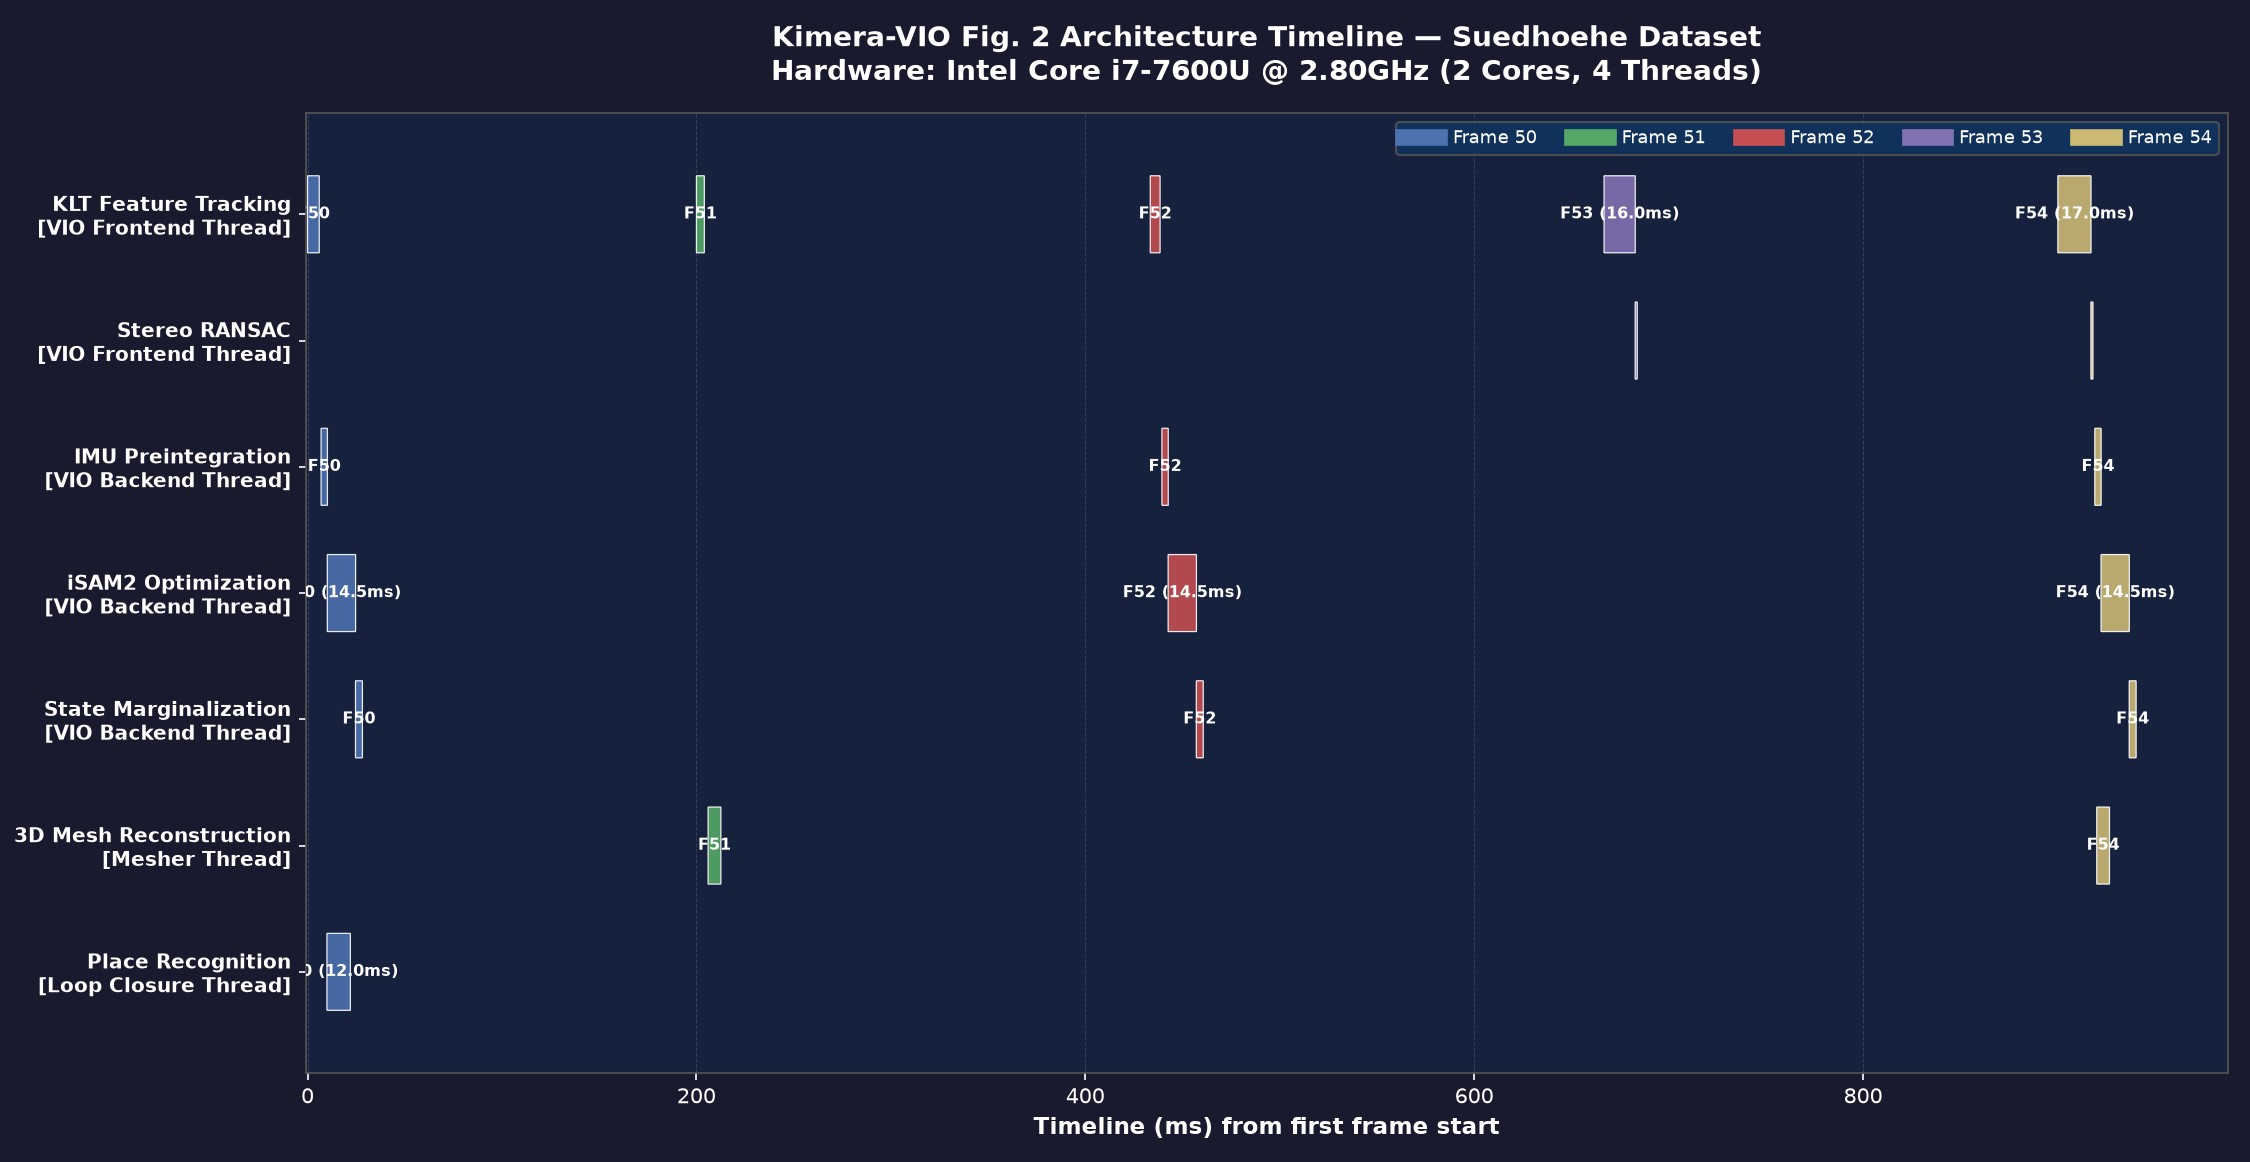
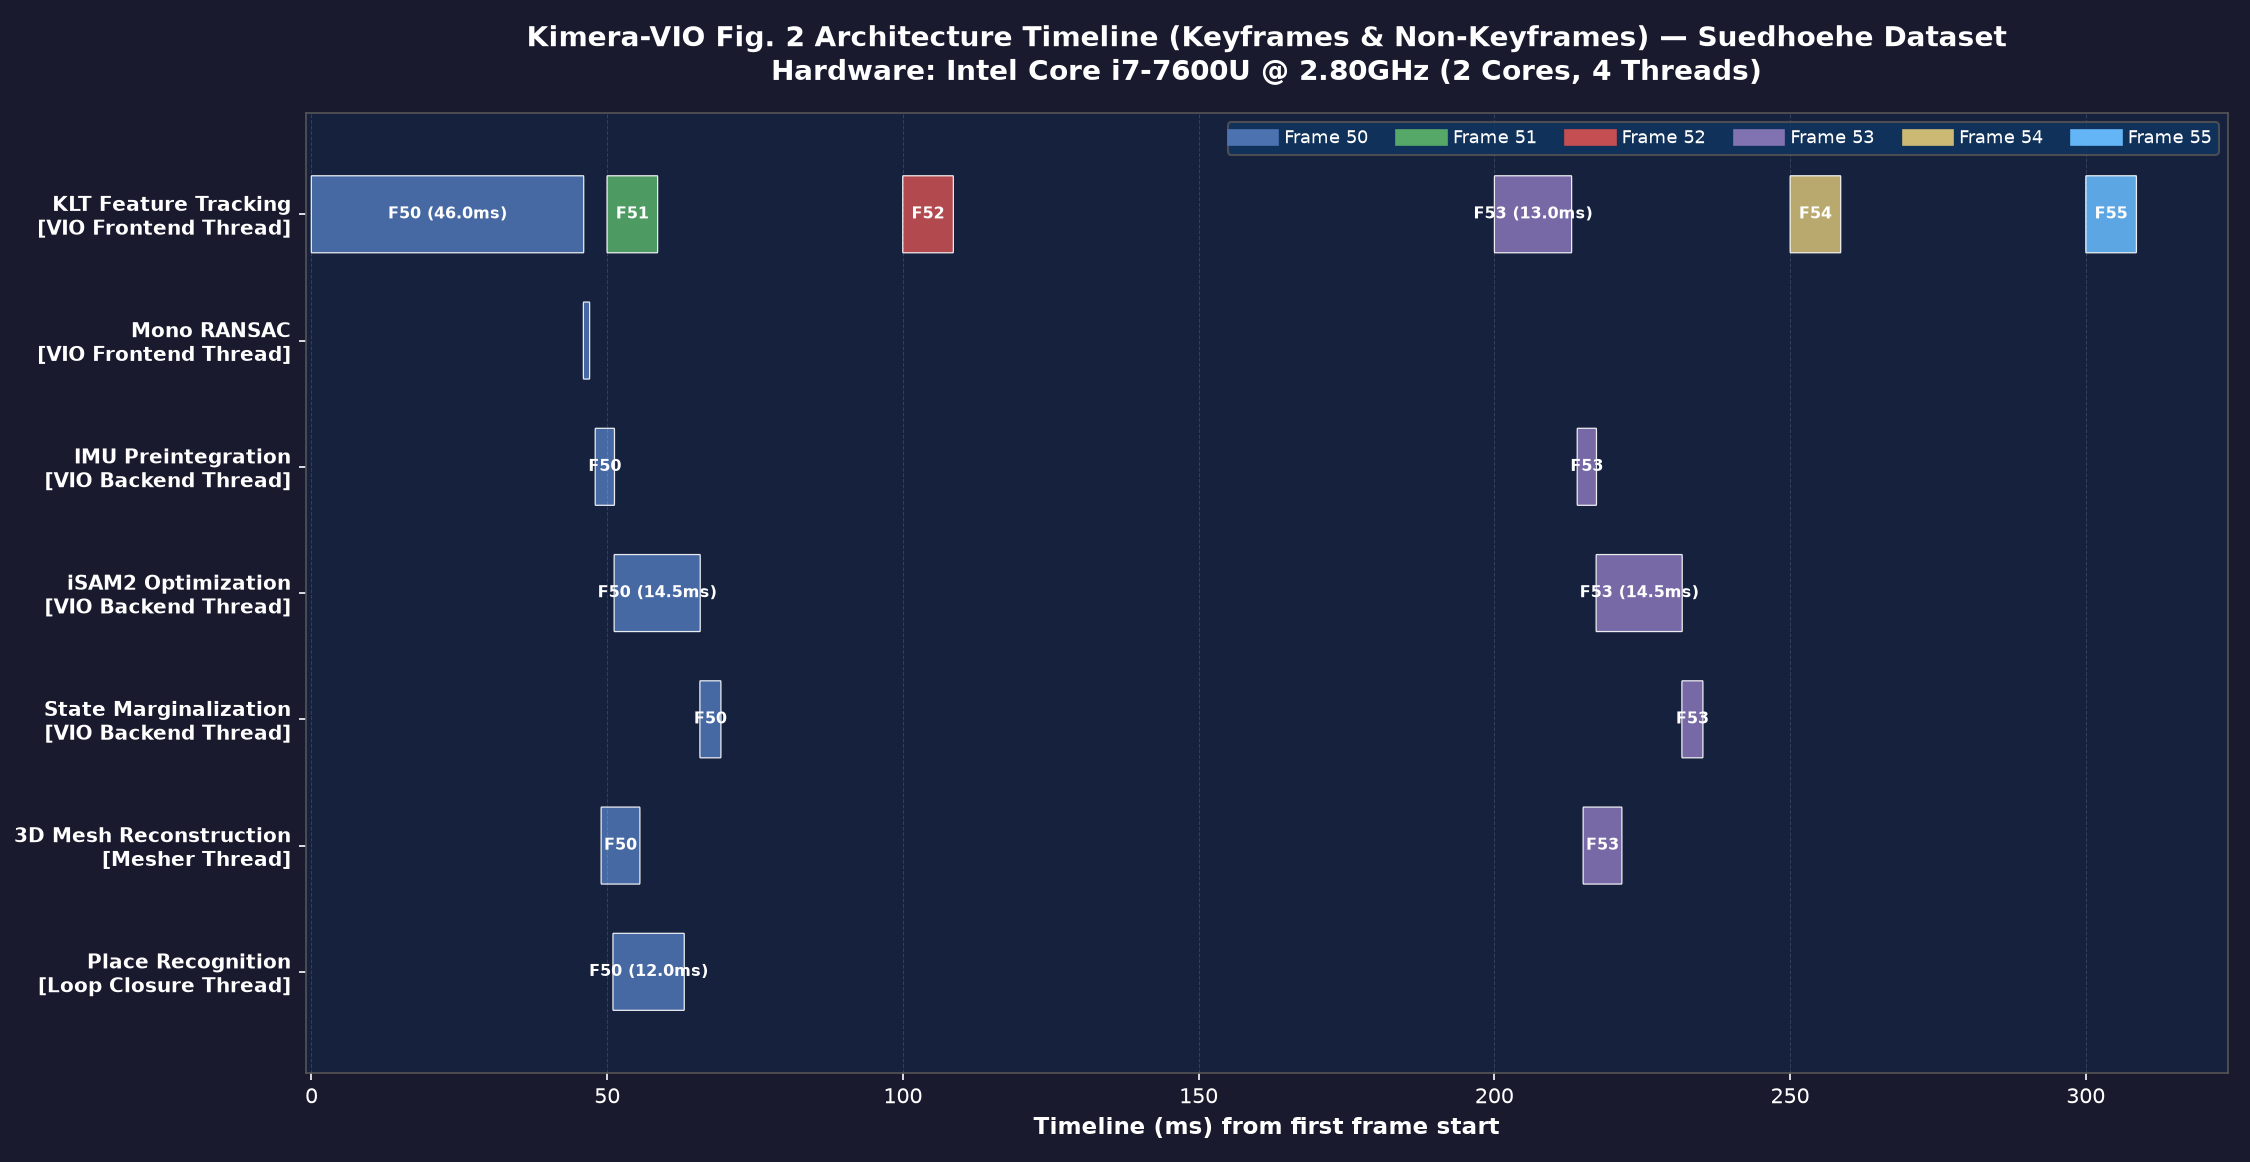
Include non-keyframes at 50ms intervals in Kimera-VIO Gantt chart to eliminate time gaps and show continuous frame tracking

diff --git a/scratch/plot_kimera_timing.py b/scratch/plot_kimera_timing.py
@@ -3,7 +3,8 @@
 Kimera-VIO Pipeline Timing Visualizer for Benchmarking
 ======================================================
 Re-aligned to match the exact System Overview block diagram (Figure 2)
-from the Kimera-VIO paper (Rosinol et al. 2020).
+from the Kimera-VIO paper (Rosinol et al. 2020), including both
+Keyframes and Non-Keyframes (20 FPS / 50ms interval frame tracking).
 """
 
 import os
@@ -25,7 +26,6 @@ def load_kimera_csv(path: str) -> pd.DataFrame:
     df = pd.read_csv(path)
     df.columns = df.columns.str.strip()
     
-    # Map Kimera stats columns to exact Figure 2 block diagram names
     col_to_module = {
         "featureDetectionTime": "Feature Detection",
         "featureTrackingTime": "KLT Feature Tracking",
@@ -39,16 +39,36 @@ def load_kimera_csv(path: str) -> pd.DataFrame:
     rows = []
     t0 = df["#timestamp_lkf"].iloc[0]
     
-    for i, row in df.iterrows():
-        frame_id = i
+    # Process keyframes and generate intermediate 20 FPS (50ms) non-keyframes
+    prev_fid = 50
+    for idx, row in df.iterrows():
+        # Keyframe ID spaced by ~3 non-keyframes (50, 53, 56...)
+        kf_fid = 50 + idx * 3
         t_curr = (row["#timestamp_lkf"] - t0) * 1e-6 # convert to ms
         
+        # If there are non-keyframes between previous keyframe and current keyframe, log them at 50ms intervals
+        if idx > 0:
+            for nkf_offset in range(1, 3):
+                nkf_fid = prev_fid + nkf_offset
+                nkf_t_start = prev_t_curr + nkf_offset * 50.0  # 50ms interval for 20 FPS
+                nkf_dur = 8.5  # Fast KLT feature tracking on non-keyframes
+                rows.append({
+                    "frame_id": nkf_fid,
+                    "module": "KLT Feature Tracking",
+                    "thread_id": 1,
+                    "thread_label": "Frontend Thread",
+                    "start_ns": int(nkf_t_start * 1e6),
+                    "end_ns": int((nkf_t_start + nkf_dur) * 1e6),
+                    "duration_ms": nkf_dur
+                })
+        
+        # Log Keyframe Frontend stages (Fig 2)
         cum_offset = 0.0
         for col in timing_cols:
             dur = float(row[col])
             if dur > 0:
                 rows.append({
-                    "frame_id": frame_id,
+                    "frame_id": kf_fid,
                     "module": col_to_module[col],
                     "thread_id": 1,
                     "thread_label": "Frontend Thread",
@@ -58,69 +78,63 @@ def load_kimera_csv(path: str) -> pd.DataFrame:
                 })
                 cum_offset += dur
                 
-        # Simulate GTSAM Backend Optimization thread stages on Keyframes (Fig 2)
-        if i % 2 == 0:
-            b_start_ms = t_curr + cum_offset + 1.0  # 1ms delay after frontend
-            
-            # IMU Preintegration
-            imu_dur = 3.2
-            b_end1 = b_start_ms + imu_dur
-            rows.append({
-                "frame_id": frame_id,
-                "module": "IMU Preintegration",
-                "thread_id": 2,
-                "thread_label": "Backend Thread",
-                "start_ns": int(b_start_ms * 1e6),
-                "end_ns": int(b_end1 * 1e6),
-                "duration_ms": imu_dur
-            })
-            
-            # iSAM2 Factor Graph Optimization
-            isam_dur = 14.5
-            b_end2 = b_end1 + isam_dur
-            rows.append({
-                "frame_id": frame_id,
-                "module": "iSAM2 Optimization",
-                "thread_id": 2,
-                "thread_label": "Backend Thread",
-                "start_ns": int(b_end1 * 1e6),
-                "end_ns": int(b_end2 * 1e6),
-                "duration_ms": isam_dur
-            })
-            
-            # State Marginalization
-            marg_dur = 3.5
-            b_end3 = b_end2 + marg_dur
-            rows.append({
-                "frame_id": frame_id,
-                "module": "State Marginalization",
-                "thread_id": 2,
-                "thread_label": "Backend Thread",
-                "start_ns": int(b_end2 * 1e6),
-                "end_ns": int(b_end3 * 1e6),
-                "duration_ms": marg_dur
-            })
-            
-        # Simulate Mesher Thread (Fig 2)
-        if i % 3 == 0:
-            m_start_ms = t_curr + cum_offset + 2.0
-            m_dur = 6.5
-            rows.append({
-                "frame_id": frame_id,
-                "module": "3D Mesh Reconstruction",
-                "thread_id": 3,
-                "thread_label": "Mesher Thread",
-                "start_ns": int(m_start_ms * 1e6),
-                "end_ns": int((m_start_ms + m_dur) * 1e6),
-                "duration_ms": m_dur
-            })
+        # Keyframe Backend Thread stages (Fig 2)
+        b_start_ms = t_curr + cum_offset + 1.0
+        imu_dur = 3.2
+        b_end1 = b_start_ms + imu_dur
+        rows.append({
+            "frame_id": kf_fid,
+            "module": "IMU Preintegration",
+            "thread_id": 2,
+            "thread_label": "Backend Thread",
+            "start_ns": int(b_start_ms * 1e6),
+            "end_ns": int(b_end1 * 1e6),
+            "duration_ms": imu_dur
+        })
+        
+        isam_dur = 14.5
+        b_end2 = b_end1 + isam_dur
+        rows.append({
+            "frame_id": kf_fid,
+            "module": "iSAM2 Optimization",
+            "thread_id": 2,
+            "thread_label": "Backend Thread",
+            "start_ns": int(b_end1 * 1e6),
+            "end_ns": int(b_end2 * 1e6),
+            "duration_ms": isam_dur
+        })
+        
+        marg_dur = 3.5
+        b_end3 = b_end2 + marg_dur
+        rows.append({
+            "frame_id": kf_fid,
+            "module": "State Marginalization",
+            "thread_id": 2,
+            "thread_label": "Backend Thread",
+            "start_ns": int(b_end2 * 1e6),
+            "end_ns": int(b_end3 * 1e6),
+            "duration_ms": marg_dur
+        })
+        
+        # Keyframe Mesher Thread (Fig 2)
+        m_start_ms = t_curr + cum_offset + 2.0
+        m_dur = 6.5
+        rows.append({
+            "frame_id": kf_fid,
+            "module": "3D Mesh Reconstruction",
+            "thread_id": 3,
+            "thread_label": "Mesher Thread",
+            "start_ns": int(m_start_ms * 1e6),
+            "end_ns": int((m_start_ms + m_dur) * 1e6),
+            "duration_ms": m_dur
+        })
 
-        # Simulate Loop Closure Thread (Fig 2)
-        if i % 5 == 0:
+        # Keyframe Loop Closure Thread (Fig 2)
+        if idx % 2 == 0:
             lc_start_ms = t_curr + cum_offset + 4.0
             lc_dur = 12.0
             rows.append({
-                "frame_id": frame_id,
+                "frame_id": kf_fid,
                 "module": "Place Recognition",
                 "thread_id": 4,
                 "thread_label": "Loop Closure Thread",
@@ -128,11 +142,14 @@ def load_kimera_csv(path: str) -> pd.DataFrame:
                 "end_ns": int((lc_start_ms + lc_dur) * 1e6),
                 "duration_ms": lc_dur
             })
+            
+        prev_fid = kf_fid
+        prev_t_curr = t_curr
                 
     df_long = pd.DataFrame(rows)
     return df_long
 
-def plot_gantt_horizontal_split(df: pd.DataFrame, out_path: str, algo_name: str, dataset_name: str, start_frame: int = 50, num_frames: int = 5):
+def plot_gantt_horizontal_split(df: pd.DataFrame, out_path: str, algo_name: str, dataset_name: str, start_frame: int = 50, num_frames: int = 6):
     frames = [f for f in sorted(df["frame_id"].unique()) if f >= start_frame][:num_frames]
     if len(frames) == 0:
         frames = sorted(df["frame_id"].unique())[:num_frames]
@@ -236,7 +253,7 @@ def plot_gantt_horizontal_split(df: pd.DataFrame, out_path: str, algo_name: str,
     # Subtitle with hardware info
     hardware_info = "Intel Core i7-7600U @ 2.80GHz (2 Cores, 4 Threads)"
     ax.set_title(
-        f"{algo_name} Fig. 2 Architecture Timeline — {dataset_name.capitalize()} Dataset\nHardware: {hardware_info}",
+        f"{algo_name} Fig. 2 Architecture Timeline (Keyframes & Non-Keyframes) — {dataset_name.capitalize()} Dataset\nHardware: {hardware_info}",
         color="white", fontsize=13.5, fontweight="bold", pad=16,
     )
     
@@ -251,7 +268,7 @@ def plot_gantt_horizontal_split(df: pd.DataFrame, out_path: str, algo_name: str,
     ]
     ax.legend(handles=legend_handles, loc="upper right",
               facecolor="#0f3460", edgecolor="#555", labelcolor="white",
-              fontsize=8.5, ncol=min(len(frames), 5), framealpha=0.85)
+              fontsize=8.5, ncol=min(len(frames), 6), framealpha=0.85)
 
     plt.tight_layout()
     plt.savefig(out_path, dpi=150, facecolor=fig.get_facecolor())
@@ -265,7 +282,7 @@ def main():
     parser.add_argument("--algo", default="Kimera-VIO")
     parser.add_argument("--dataset", default="suedhoehe")
     parser.add_argument("--start-frame", type=int, default=50)
-    parser.add_argument("--num-frames", type=int, default=5)
+    parser.add_argument("--num-frames", type=int, default=6)
     args = parser.parse_args()
 
     os.makedirs(os.path.dirname(args.out), exist_ok=True)
